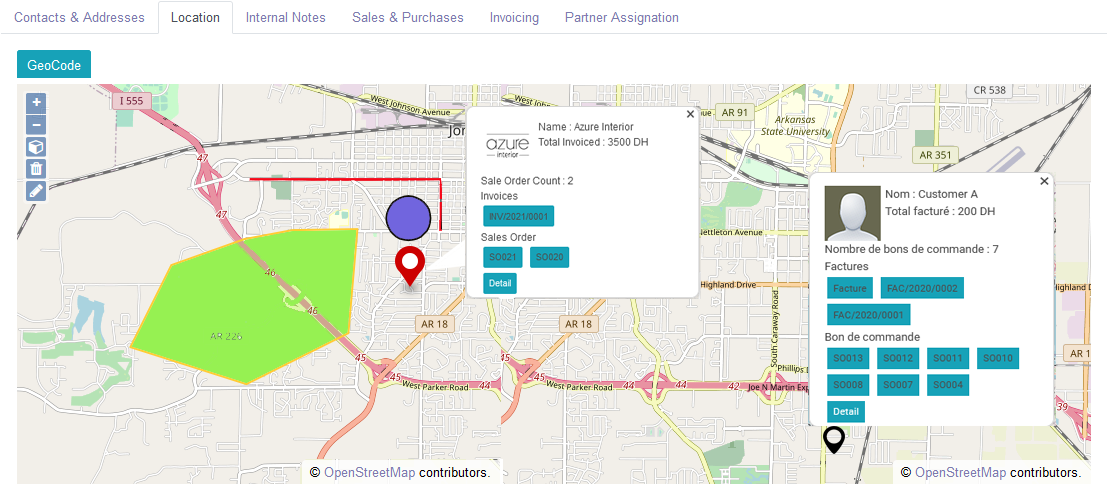
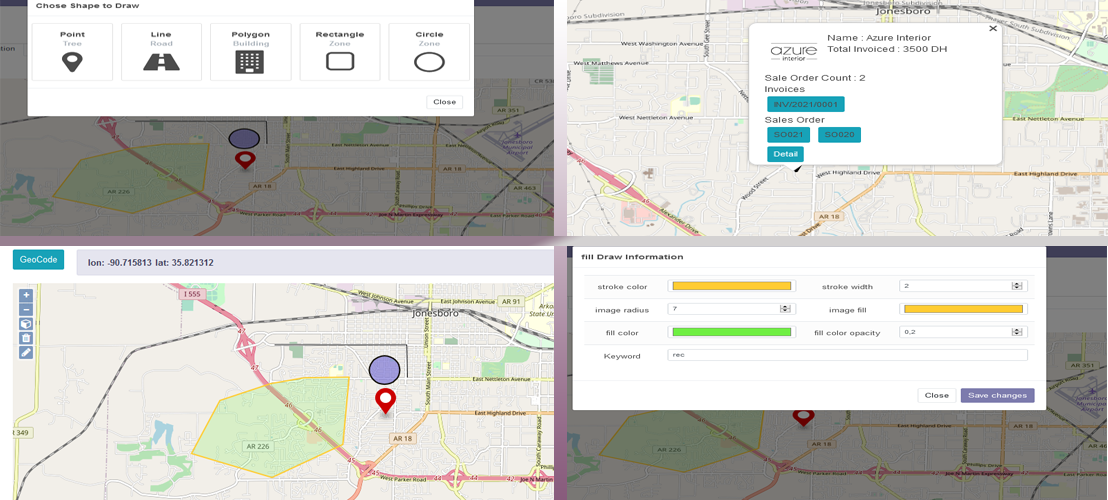
update viewType de render relationels field popup

diff --git a/sol_ol_map_draw/static/src/js/main_view.js b/sol_ol_map_draw/static/src/js/main_view.js
@@ -43,7 +43,8 @@ var SolverMapRenderer = BasicRenderer.extend({
         console.log('init');
         this._getFieldAttesArray();
         this.isInDOM=false;
-        //console.log('this.state.data',this.state);
+        //console.log('session',session);
+
     },
 
      _getFieldAttesArray: function(){
@@ -91,74 +92,27 @@ var SolverMapRenderer = BasicRenderer.extend({
     },
 
     on_attach_callback: function () {
-        console.log(' on_attach_callback init view');
         if (this.isInDOM) {
-            console.log('call',this.isInDOM);
             var self = this;
             this._renderMap();
             if(this.map){
                 this._renderMarkers();
                 this._renderPopupOverlay();
                 if(this.geofield){
-                    console.log('this.geofield',this.geofield);
                     this._createSearchControl();
                 }
                 this._loadOverlayContentTemplate(this.state.model,function(data){
                     self.overlayContent = data;
                 });
             }
-          /*  this._renderMarkers();
-            this._renderPopupOverlay();
-            this._createSearchControl();
-            */
         }
-
-        /*setTimeout(function(){
-
-            //console.log(' self._renderMap();', map);
-            if (self.map){
-                console.log('map true');
-                self._renderMarkers();
-                self._renderPopupOverlay();
-                self._createSearchControl();
-                console.log('updateSize');
-                //self.map.updateSize();
-                //self.map.getView().setZoom(6);
-                self._loadOverlayContentTemplate(self.state.model,function(data){
-                    self.overlayContent = data;
-                });
-            }
-            return def;
-        }, 1000);*/
-        return this._super();
-    },
-
-    _renderF: function () {
-        console.log('_render');
-        if (this.mapTemplate){
-            this.$el.append(qweb.render(this.mapTemplate.name));
-            return this._super();
-        }
-    	this.$el.append(qweb.render('Empty'));
         return this._super();
     },
 
     _renderView: function () {
         console.log('_renderView');
-
-        /*if (this.isInDOM ) {
-            var self = this;
-            setTimeout(function(){
-                console.log('_renderView this.isInDOM', this.isInDOM);
-                self._renderMarkers();
-                self.map.updateSize();
-                self.map.getView().setZoom(6);
-            },300);
-            return $.when();
-        }*/
         if(!this.isInDOM){
             this.isInDOM = true;
-            console.log('render',this.isInDOM);
             if (this.mapTemplate){
                 this.$el.append(qweb.render(this.mapTemplate.name));
                 return this._super();
@@ -183,7 +137,6 @@ var SolverMapRenderer = BasicRenderer.extend({
 
     _renderMap: function () {
         if (!this.map) {
-            console.log('!this.map')
               this.map = new ol.Map({
               layers: [
                 new ol.layer.Tile({
@@ -196,14 +149,12 @@ var SolverMapRenderer = BasicRenderer.extend({
               }),
             });
         }
-        console.log('this.map')
         return this.map;
     },
 
     _renderMarkers: function () {
        var self = this;
        if (!this.icon_layer) {
-            console.log('1')
             this.icon_layer = new ol.layer.Vector({
                 source: new ol.source.Vector({
                 features: [],
@@ -214,15 +165,8 @@ var SolverMapRenderer = BasicRenderer.extend({
        this.map.on('click',self._onMarkerClick.bind(self));
 
        }else if (this.icon_layer.getSource().getFeatures().length > 0){
-            console.log('2')
             this.icon_layer.getSource().clear();
        }
-/*       var _longitude=this.longitude;
-       var _latitude=this.latitude;
-       console.log("==> ",_longitude,_longitude);
-        _.each(this.state.data, function (item) {
-            console.log("==> ",item.data[_longitude], item.data[_latitude]);
-        })*/
       var iconFeatures = [];
       var iconStyle = new ol.style.Style({
                     image: new ol.style.Icon({
@@ -239,11 +183,9 @@ var SolverMapRenderer = BasicRenderer.extend({
 
        _.each(this.state.data, function (item) {
             if(!item.data){
-                console.log('3')
                 return;
             }
            if( parseInt(item.data[_longitude]) != 0 && parseInt(item.data[_latitude]) != 0){
-                console.log('4')
                 var Feature = new ol.Feature({
                     geometry: new ol.geom.Point(
                     ol.proj.transform([item.data[_longitude], item.data[_latitude]],'EPSG:4326', 'EPSG:3857')
@@ -254,8 +196,8 @@ var SolverMapRenderer = BasicRenderer.extend({
                 var _relationalFieldsObject = {};
                 var _dataFieldsObject = {};
                 _.each(Object.keys(self.viewInfo.viewFields), function (viewItem) {
-                    console.log('5')
                     var _data = item.data[viewItem];
+
                     var _flag = 0;
                     var _fieldType = '';
                     if (typeof _data === 'string'){
@@ -264,32 +206,37 @@ var SolverMapRenderer = BasicRenderer.extend({
                     }else if(typeof _data === 'number'){
                         if (_data >0)
                             _flag=1;
-                        if(self.viewInfo.viewFields[viewItem].type==='monetary' && item.data["currency_id"].length>1){
-                            _fieldType = session.get_currency(item.data["currency_id"][0]).symbol;
+                        if(self.viewInfo.viewFields[viewItem].type==='monetary'){
+                            if(item.data["currency_id"]){
+                                if(item.data["currency_id"].length>1){
+                                    _fieldType = session.get_currency(item.data["currency_id"][0]).symbol;
+                                }
+                            }
                         }
-                    }else if(Array.isArray(_data)){
-                        if (_data.length>0){
+                    }else if(typeof _data === 'object'){
+                        if (_data !== null){
                             _flag=0;
-                           var projection = self._getRelationalFieldProjection(viewItem);
-                           if (!projection || projection.length===0){
-                                projection = "'id','name','display_name'";
-                           }
-
-                            rpc.query({
-                                model: self.viewInfo.viewFields[viewItem].relation,
-                                method: 'search_read',
-                                fields: projection.split(","),
-                                domain: [['id', 'in', item.data[viewItem]]],
-                            })
-                            .then(function (result) {
-                                var RelationalFields = {
-                                    title : self.viewInfo.viewFields[viewItem].string,
-                                    model : self.viewInfo.viewFields[viewItem].relation,
-                                    ids : item.data[viewItem],
-                                };
-                                RelationalFields['data'] = result;
-                                _relationalFieldsObject[viewItem]=RelationalFields;
-                            });
+                            if(item.data[viewItem].res_ids.length>0){
+                                var projection = self._getRelationalFieldProjection(viewItem);
+                                if (!projection || projection.length===0){
+                                    projection = "'id','name','display_name'";
+                                }
+                                rpc.query({
+                                    model: self.viewInfo.viewFields[viewItem].relation,
+                                    method: 'search_read',
+                                    fields: projection.split(","),
+                                    domain: [['id', 'in', item.data[viewItem].res_ids]],
+                                })
+                                .then(function (result) {
+                                    var RelationalFields = {
+                                        title : self.viewInfo.viewFields[viewItem].string,
+                                        model : self.viewInfo.viewFields[viewItem].relation,
+                                        ids : item.data[viewItem].res_ids,
+                                    };
+                                    RelationalFields['data'] = result;
+                                    _relationalFieldsObject[viewItem]=RelationalFields;
+                                });
+                            }
                         }
                     }
                     if (_flag >0){
@@ -311,16 +258,13 @@ var SolverMapRenderer = BasicRenderer.extend({
             }
        });
         if(iconFeatures.length>0){
-            console.log('6')
             var coord = ol.extent.getCenter(iconFeatures[0].getGeometry().getExtent());
             this._mapSetCenter(coord);
         }
-        console.log('7')
-       this.icon_layer.getSource().addFeatures(iconFeatures);/* */
+       this.icon_layer.getSource().addFeatures(iconFeatures);
     },
 
     _onMarkerClick: function (event) {
-        console.log('click on map')
         if(this.map){
             var _feature =0;
             var self = this;
@@ -416,13 +360,11 @@ var SolverMapRenderer = BasicRenderer.extend({
          var self = this;
         _.each(this.state.data, function (item) {
             if(!item.data){
-                console.log("1");
                 return;
             }
             self._onPopUpCloserClick();
             var _map_form =self.geofield;
             if(item.data[_map_form]){
-                console.log("2");
                 var feature_object = new ol.format.GeoJSON().readFeatures(item.data[_map_form]);
                 _.each(feature_object, function (feature) {
                     if(feature){
